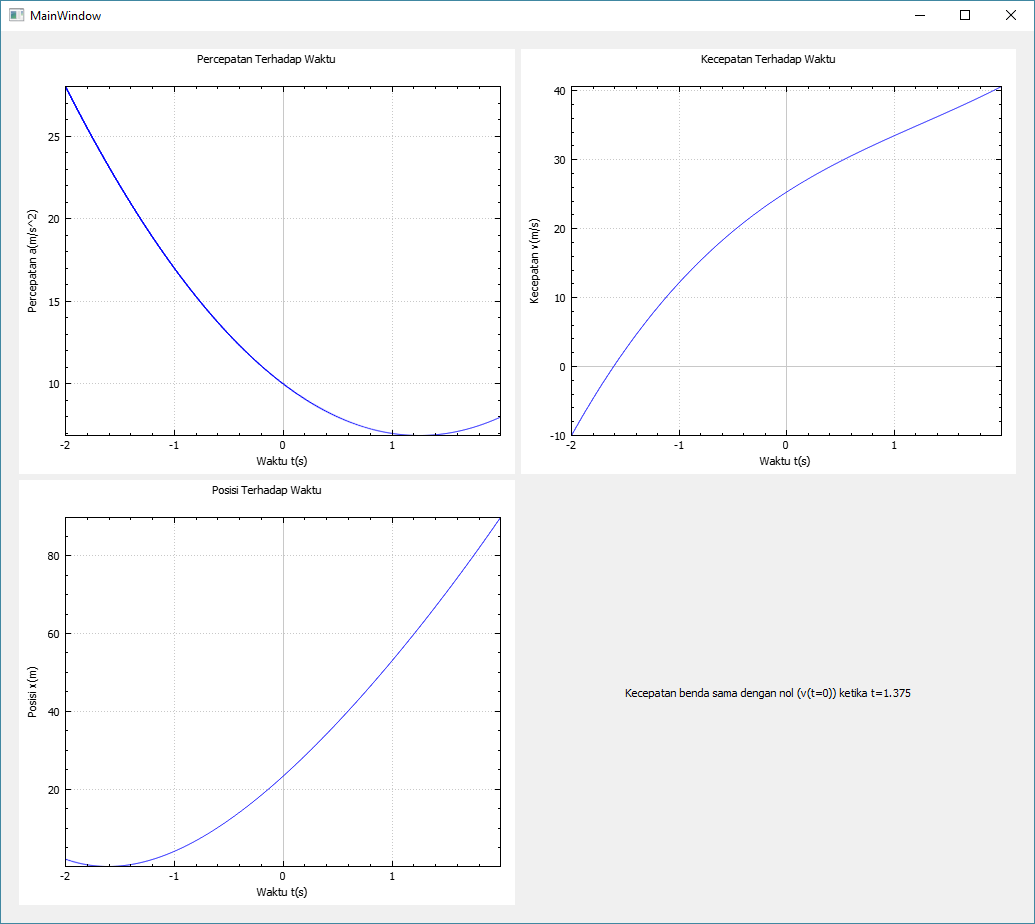
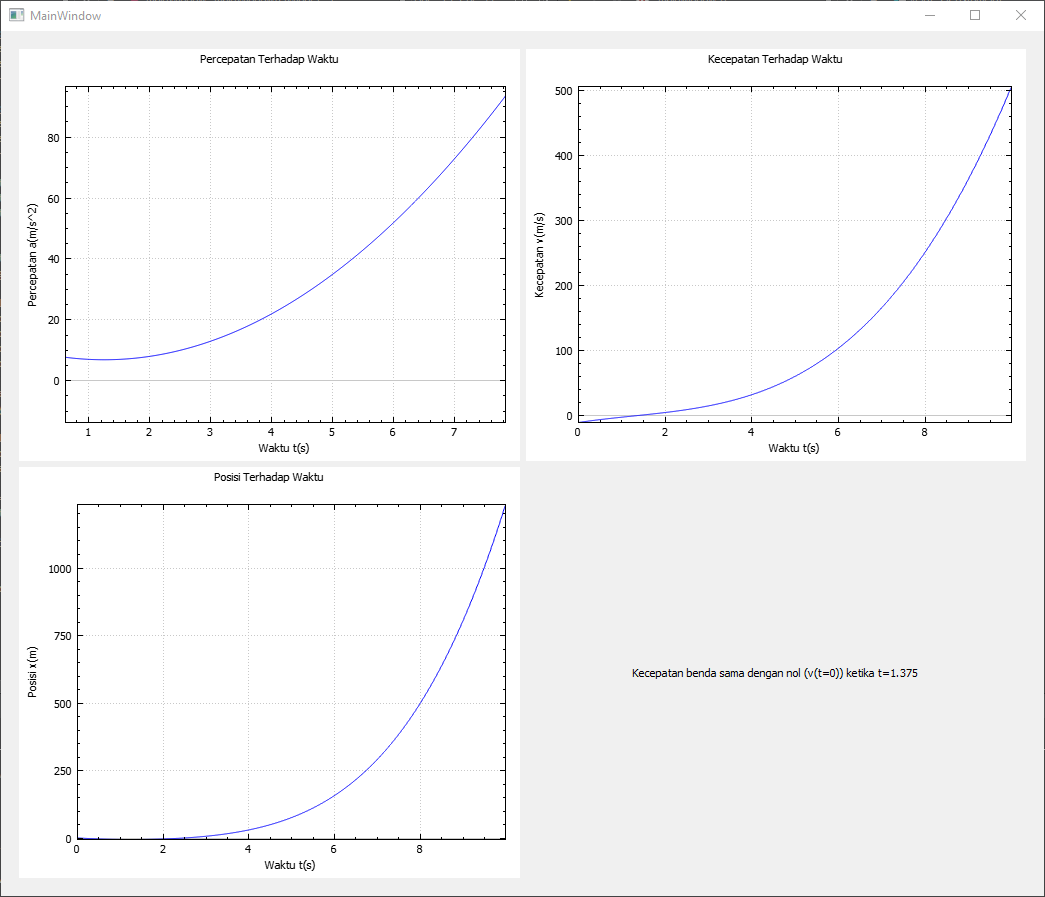
add readme

diff --git a/mainwindow.cpp b/mainwindow.cpp
@@ -11,7 +11,7 @@ MainWindow::MainWindow(QWidget *parent) :
     tugas1 = new Tugas1();
     tugas1->setInitVelocity(-10); //set kecepatan awal
     tugas1->setInitPosition(2); // set posisi awal
-    tugas1->setTimeRange(-2, 2, 2000); // set range waktu
+    tugas1->setTimeRange(0, 10, 1000); // set range waktu
     tugas1->setInitialGuess(1, 2); // set tebakan awal bisection
     tugas1->calculate(); // hitung
 

diff --git a/README.md b/README.md
@@ -7,3 +7,5 @@ Parameter yang digunakan:
 * X0 = 2
 * V0 = -10
 * Tebakan bisection a = 2 dan b = 3
+
+Plot interaktif dapat di pan dan zoom dan berjalan di Windows. [Download](https://github.com/fadhlika/Tugas-1-Komputasi-Sistem-Fisis/releases)
